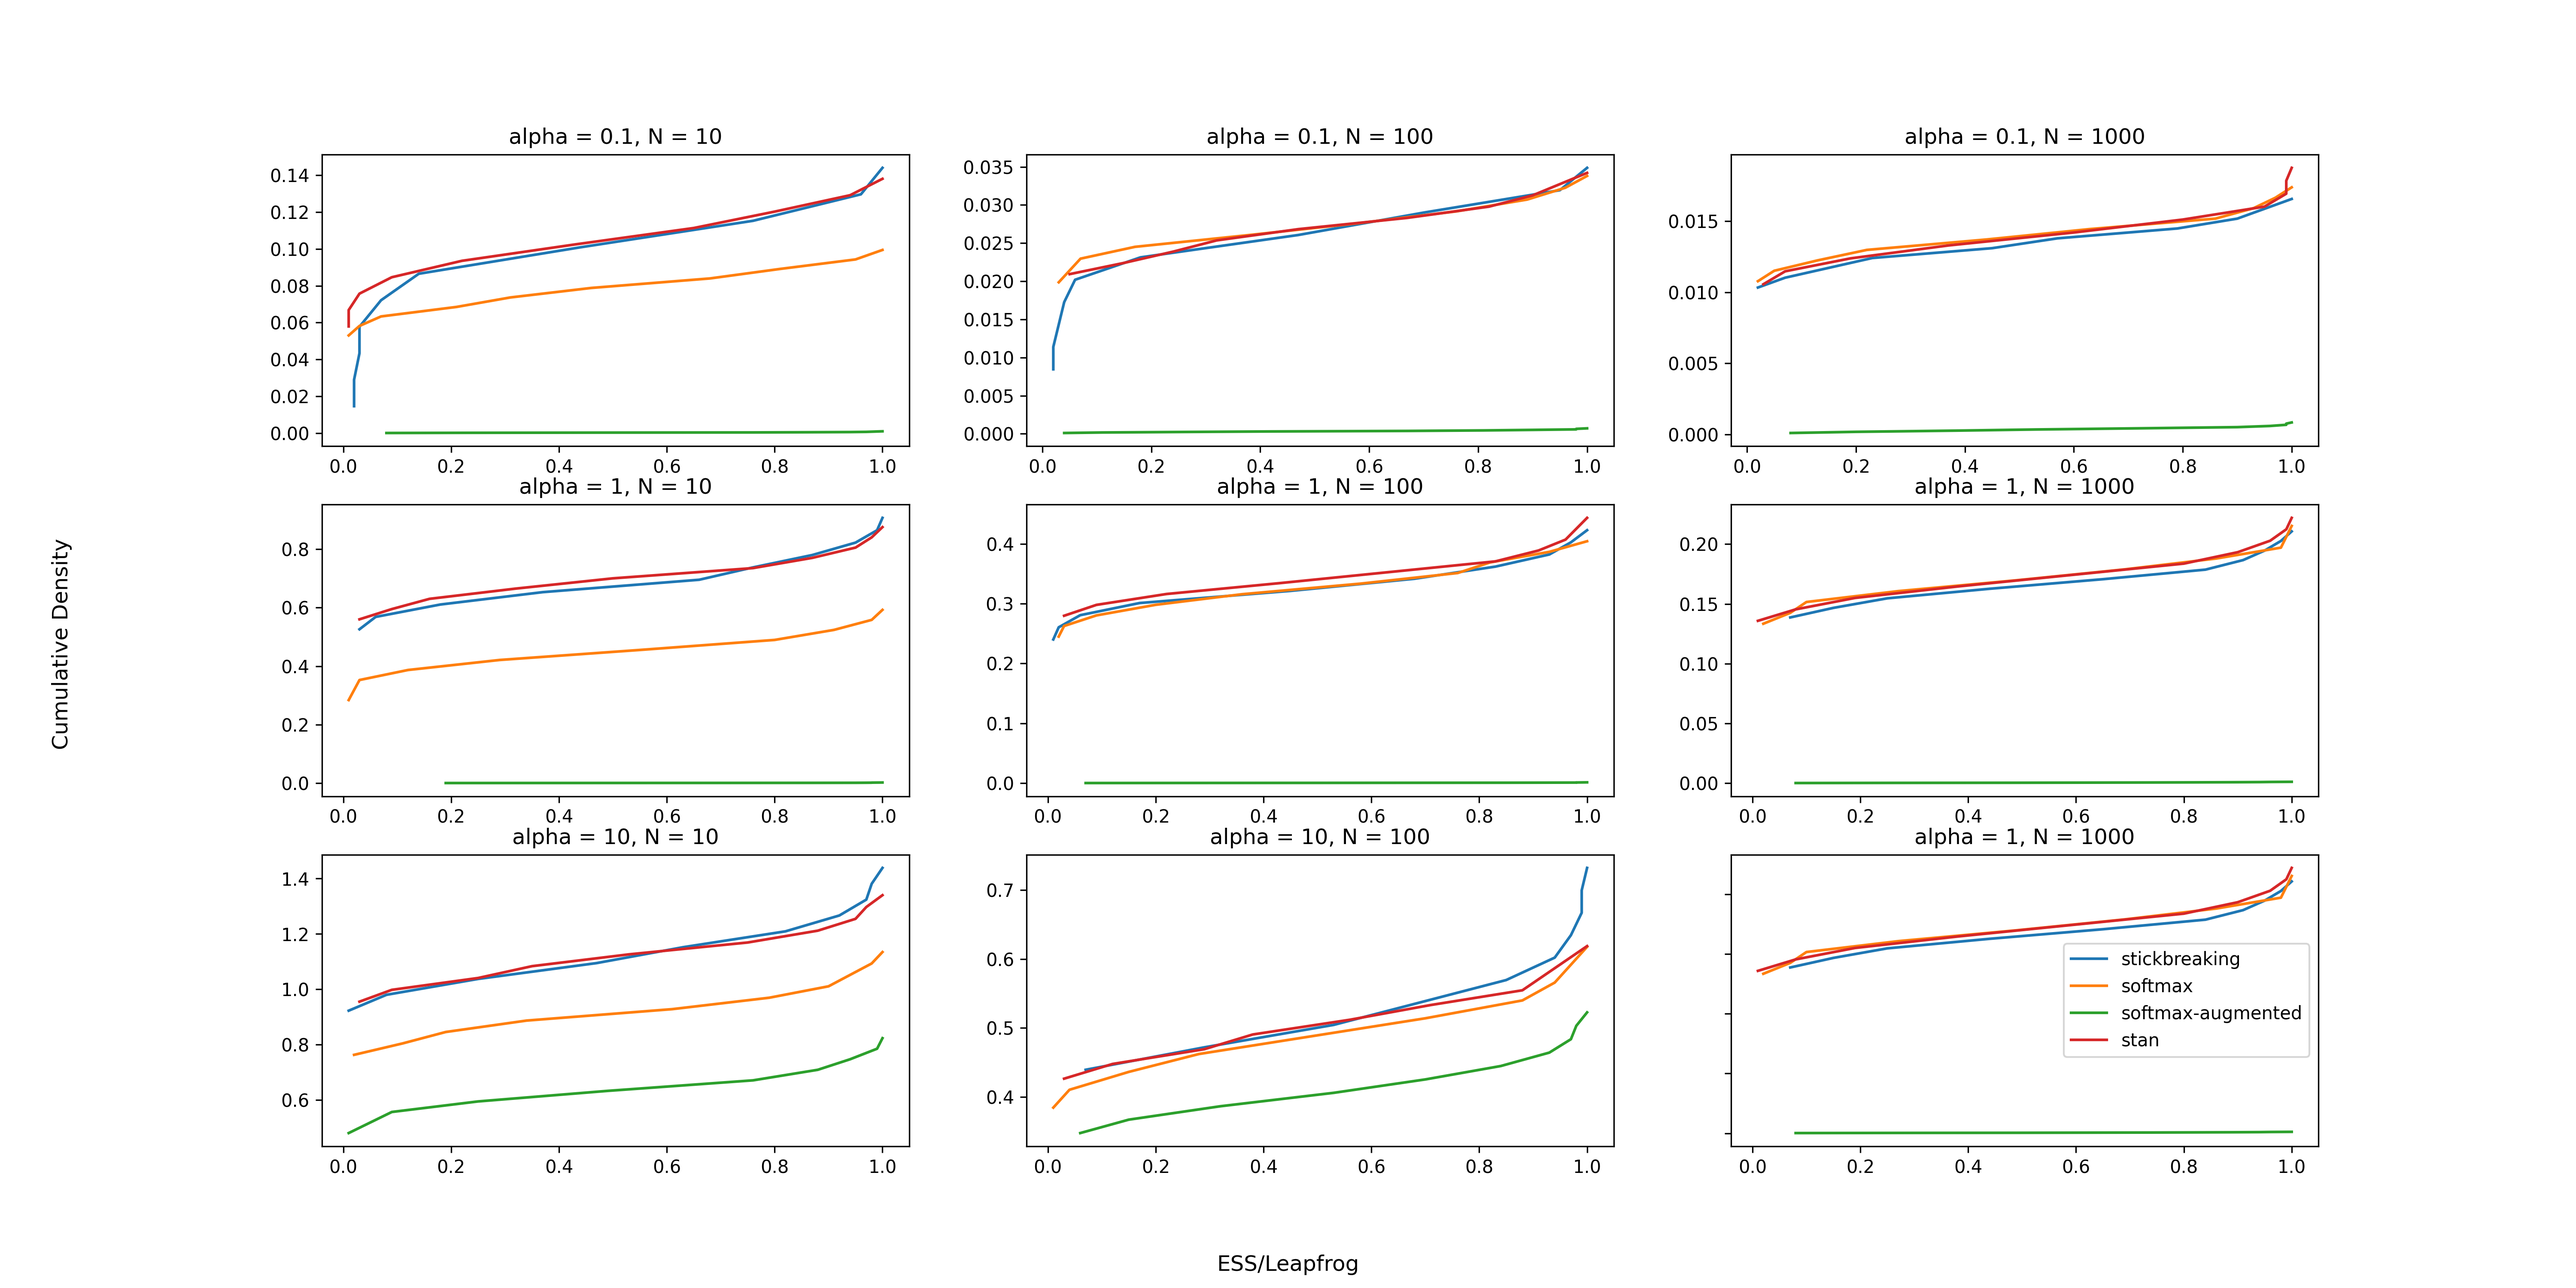
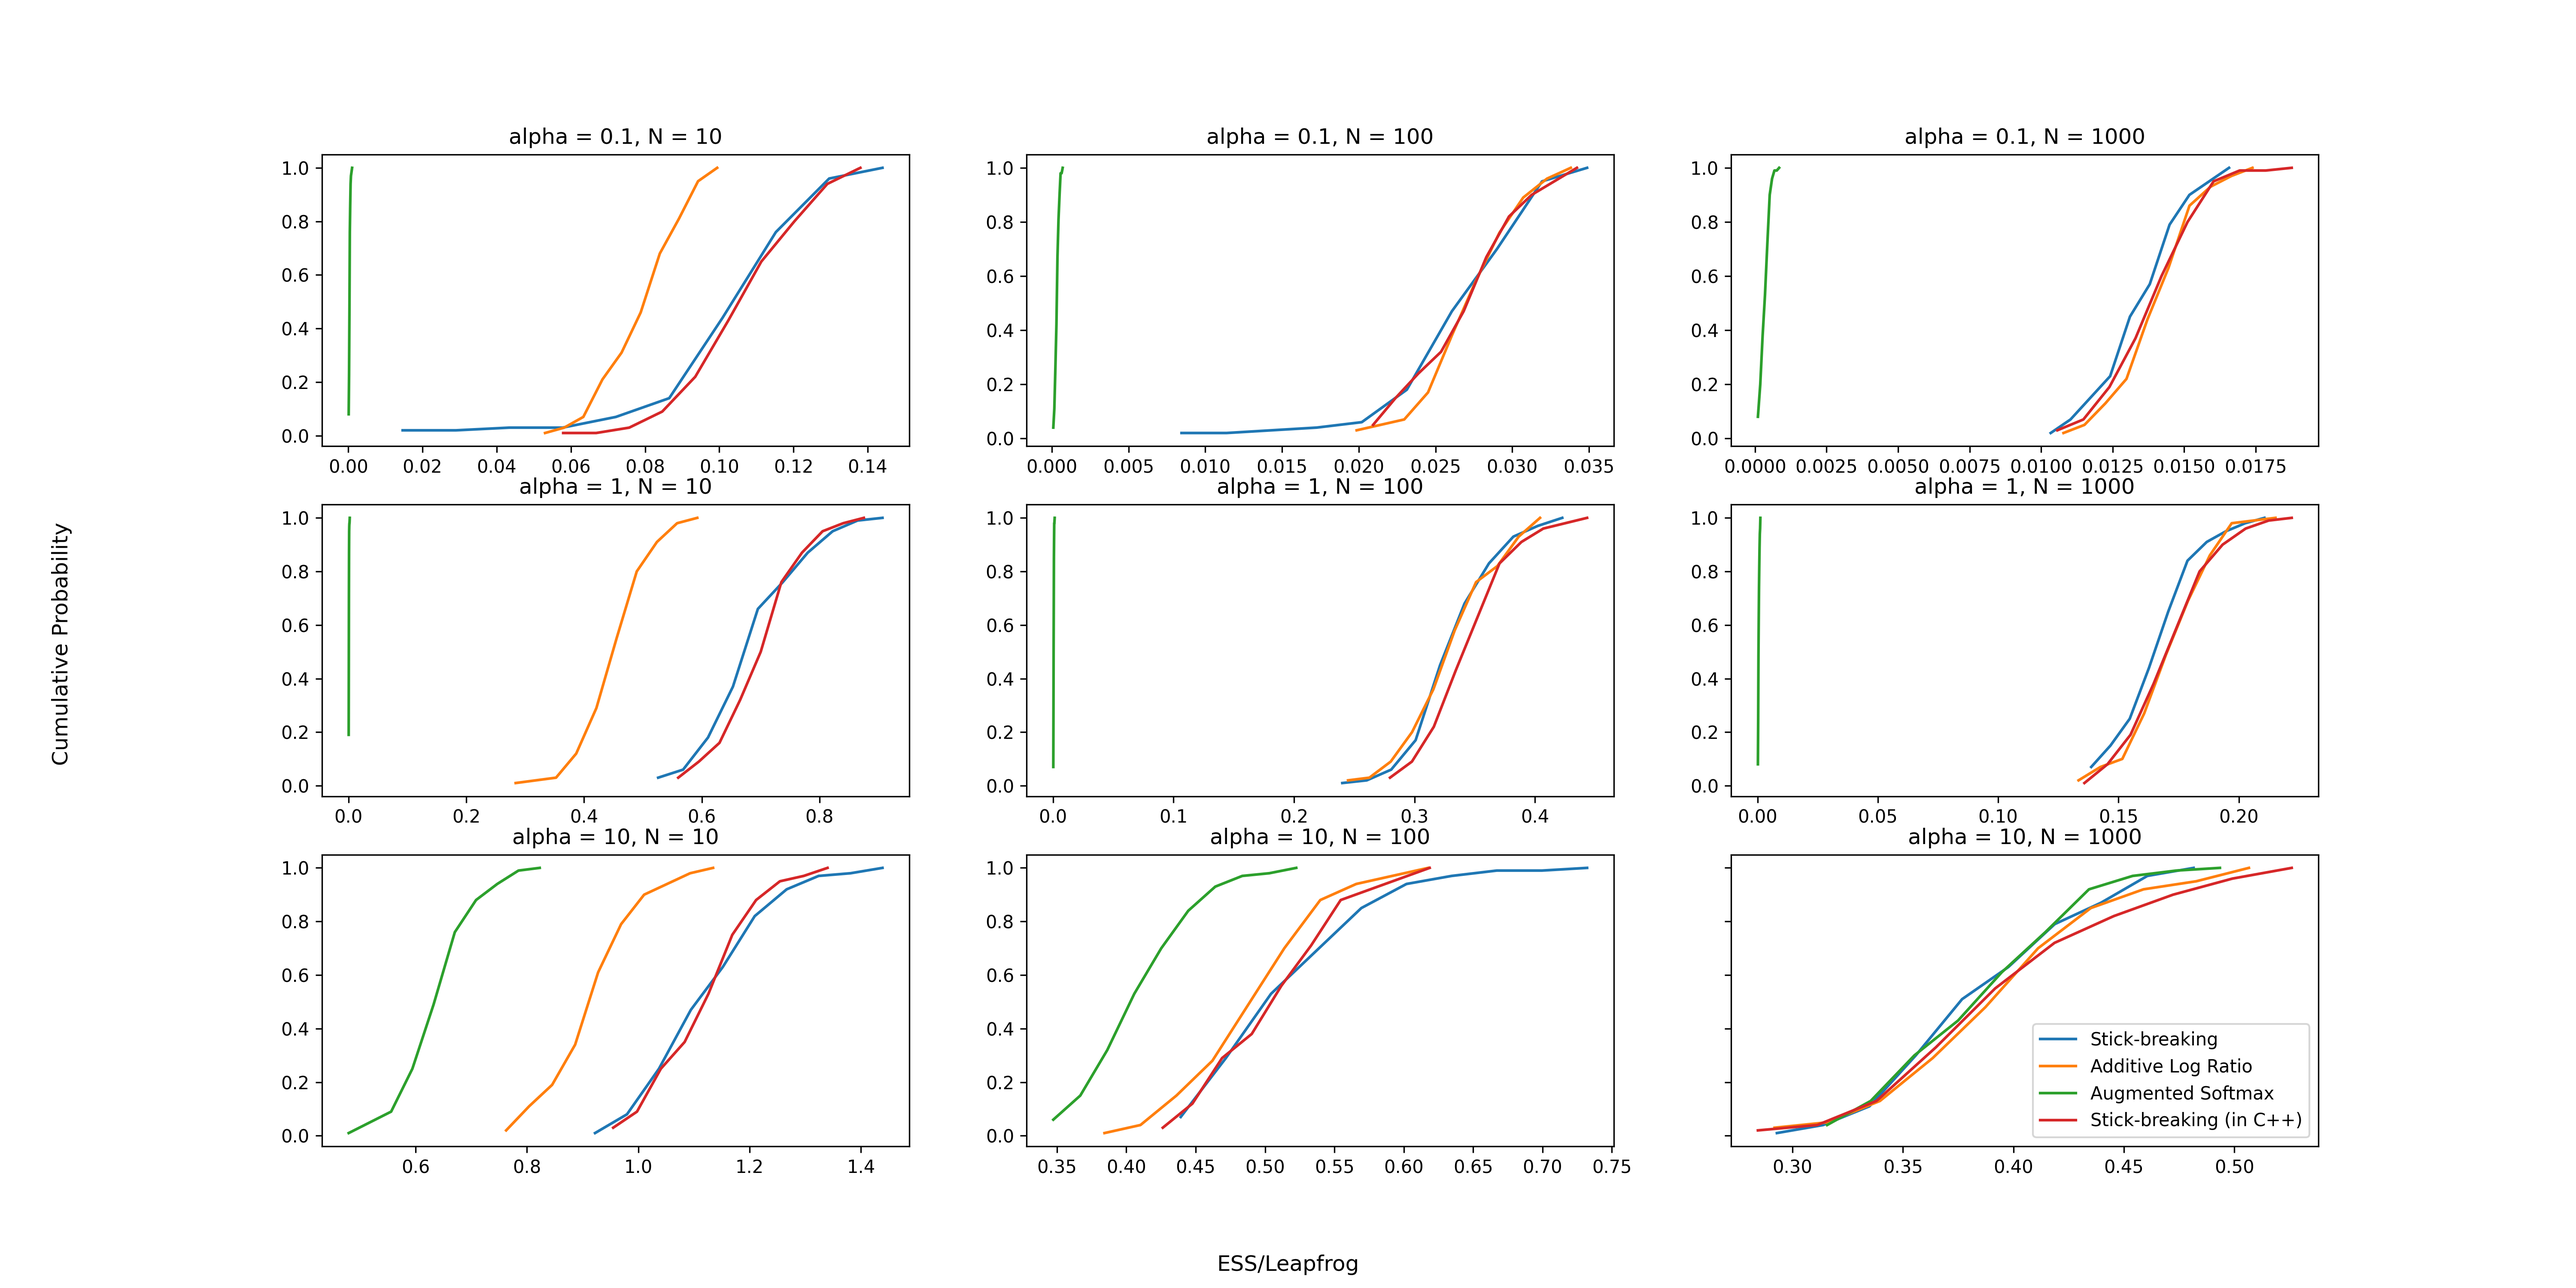
final simplex figures

diff --git a/utils/rmse_plot_script.py b/utils/rmse_plot_script.py
@@ -13,16 +13,19 @@ import arviz as az
 transform_category='simplex'
 evaluating_model='dirichlet_symmetric'
 
-transforms = ['stan', 'softmax-augmented','stickbreaking', 'softmax']
+transforms = ['stickbreaking', 'softmax', 'softmax-augmented', 'stan']
+
+transform_label = {'stickbreaking': 'Stick-breaking',
+                   'softmax': 'Additive Log Ratio',
+                   'softmax-augmented': 'Augmented Softmax',
+                   'stan': 'Stick-breaking (in C++)'}
 
 parameters = [{'alpha':[0.1]*10, 'N':10}, {'alpha':[0.1]*100, 'N':100}, {'alpha': [0.1]*1000, 'N': 1000},
                {'alpha':[1]*10, 'N':10}, {'alpha':[1]*100, 'N':100},  {'alpha': [1]*1000, 'N': 1000},
-               {'alpha':[10]*10, 'N':10}, {'alpha':[10]*100, 'N':100},  {'alpha': [1]*1000, 'N': 1000}]
+               {'alpha':[10]*10, 'N':10}, {'alpha':[10]*100, 'N':100},  {'alpha': [10]*1000, 'N': 1000}]
 
 plt.rcParams["figure.figsize"] = [20,10]
 fig, axes = plt.subplots(3,3)
-fig.supxlabel('Cumulative Leapfrog Steps')
-fig.supylabel('Root Mean Squared Error')
 
 for ax, params in zip(axes.flatten() if len(parameters)>1 else [axes],  parameters):
     for transform in transforms:
@@ -34,9 +37,11 @@ for ax, params in zip(axes.flatten() if len(parameters)>1 else [axes],  paramete
         N = params['N']
         true_x = [a/sum(alpha) for a in alpha]
         x, y = rmse_leapfrog(idata=idata, true_var=true_x, var_name='x', var_dim=0)
-        ax.plot(x,y, label = str(transform))
-        ax.set_title(f'alpha={alpha[0]}, N = {N}')
+        ax.plot(x,y, label=transform_label[str(transform)])
+    ax.set_title(f'alpha = {params["alpha"][0]}, N = {params["N"]}')
 ax.axes.yaxis.set_ticklabels([])
+fig.supxlabel('Cumulative Leapfrog Steps')
+fig.supylabel('Root Mean Squared Error')
 plt.legend()
 plt.savefig('figures/simplex/rmse.png', dpi=300)
 

diff --git a/utils/ess_density.py b/utils/ess_density.py
@@ -11,11 +11,18 @@ import arviz as az
 
 
 
+
 parameters = [{'alpha':[0.1]*10, 'N':10}, {'alpha':[0.1]*100, 'N':100}, {'alpha': [0.1]*1000, 'N': 1000},
                {'alpha':[1]*10, 'N':10}, {'alpha':[1]*100, 'N':100},  {'alpha': [1]*1000, 'N': 1000},
-               {'alpha':[10]*10, 'N':10}, {'alpha':[10]*100, 'N':100},  {'alpha': [1]*1000, 'N': 1000}]
+               {'alpha':[10]*10, 'N':10}, {'alpha':[10]*100, 'N':100},  {'alpha': [10]*1000, 'N': 1000}]
 
 transforms = ['stickbreaking', 'softmax', 'softmax-augmented', 'stan']
+
+transform_label = {'stickbreaking': 'Stick-breaking',
+                   'softmax': 'Additive Log Ratio',
+                   'softmax-augmented': 'Augmented Softmax',
+                   'stan': 'Stick-breaking (in C++)'}
+
 transform_category='simplex'
 evaluating_model='dirichlet_symmetric'
 
@@ -27,10 +34,12 @@ fig, axes = plt.subplots(3,3)
 for ax, params in zip(axes.flatten() if len(parameters)>1 else [axes],  parameters):
     for transform in transforms:
         x, y = get_ess_leapfrog_ratio(transform_category, transform, evaluating_model, params, var_name, var_dim, n_repeat=100, plot_type='density')
-        ax.plot(x,y, label=transform)
+        
+        ax.plot(x,y, label=transform_label[str(transform)])
+
     ax.set_title(f'alpha = {params["alpha"][0]}, N = {params["N"]}')
 ax.axes.yaxis.set_ticklabels([])
 fig.supxlabel('ESS/Leapfrog')
-fig.supylabel('Density')
+fig.supylabel('Probability Density Function')
 plt.legend()
 plt.savefig('figures/simplex/ess_density.png', dpi=300)

diff --git a/utils/ess_cdf.py b/utils/ess_cdf.py
@@ -13,9 +13,15 @@ import arviz as az
 
 parameters = [{'alpha':[0.1]*10, 'N':10}, {'alpha':[0.1]*100, 'N':100}, {'alpha': [0.1]*1000, 'N': 1000},
                {'alpha':[1]*10, 'N':10}, {'alpha':[1]*100, 'N':100},  {'alpha': [1]*1000, 'N': 1000},
-               {'alpha':[10]*10, 'N':10}, {'alpha':[10]*100, 'N':100},  {'alpha': [1]*1000, 'N': 1000}]
+               {'alpha':[10]*10, 'N':10}, {'alpha':[10]*100, 'N':100},  {'alpha': [10]*1000, 'N': 1000}]
 
 transforms = ['stickbreaking', 'softmax', 'softmax-augmented', 'stan']
+
+transform_label = {'stickbreaking': 'Stick-breaking',
+                   'softmax': 'Additive Log Ratio',
+                   'softmax-augmented': 'Augmented Softmax',
+                   'stan': 'Stick-breaking (in C++)'}
+
 transform_category='simplex'
 evaluating_model='dirichlet_symmetric'
 
@@ -27,10 +33,10 @@ fig, axes = plt.subplots(3,3)
 for ax, params in zip(axes.flatten() if len(parameters)>1 else [axes],  parameters):
     for transform in transforms:
         x, y = get_ess_leapfrog_ratio(transform_category, transform, evaluating_model, params, var_name, var_dim, n_repeat=100, plot_type='cdf')
-        ax.plot(x,y, label=transform)
+        ax.plot(x,y, label=transform_label[str(transform)])
     ax.set_title(f'alpha = {params["alpha"][0]}, N = {params["N"]}')
 ax.axes.yaxis.set_ticklabels([])
 fig.supxlabel('ESS/Leapfrog')
-fig.supylabel('Cumulative Density')
+fig.supylabel('Cumulative Probability')
 plt.legend()
 plt.savefig('figures/simplex/ess_cdf.png', dpi=300)

diff --git a/utils/ess.py b/utils/ess.py
@@ -38,14 +38,17 @@ def get_ess_leapfrog_ratio(
         param_map = pickle.load(f)
     ess = np.loadtxt(open(f'/mnt/sdceph/users/mjhajaria/sampling_results/{transform_category}/{transform}/{evaluating_model}/ess_{param_map[tuple(list(params.values())[0])]}_{n_repeat}.csv'),delimiter = ",")
     leapfrog = np.average(idata.sample_stats['n_steps'].sum(axis=1).values.reshape(-1, 4), axis=1)
+    
     x=np.divide(ess, leapfrog)
-    if plot_type=='density':
+
+    if plot_type == 'density':
     	kde = gaussian_kde(x)
     	dist_space = np.linspace(min(x), max(x), 1000)
     	return dist_space, kde(dist_space)
+
     if plot_type=='cdf':
         count, bins_count = np.histogram(x, bins=10)
         pdf = count / sum(count)
         cdf = np.cumsum(pdf)
-        return cdf, bins_count[1:]
+        return bins_count[1:], cdf
 
